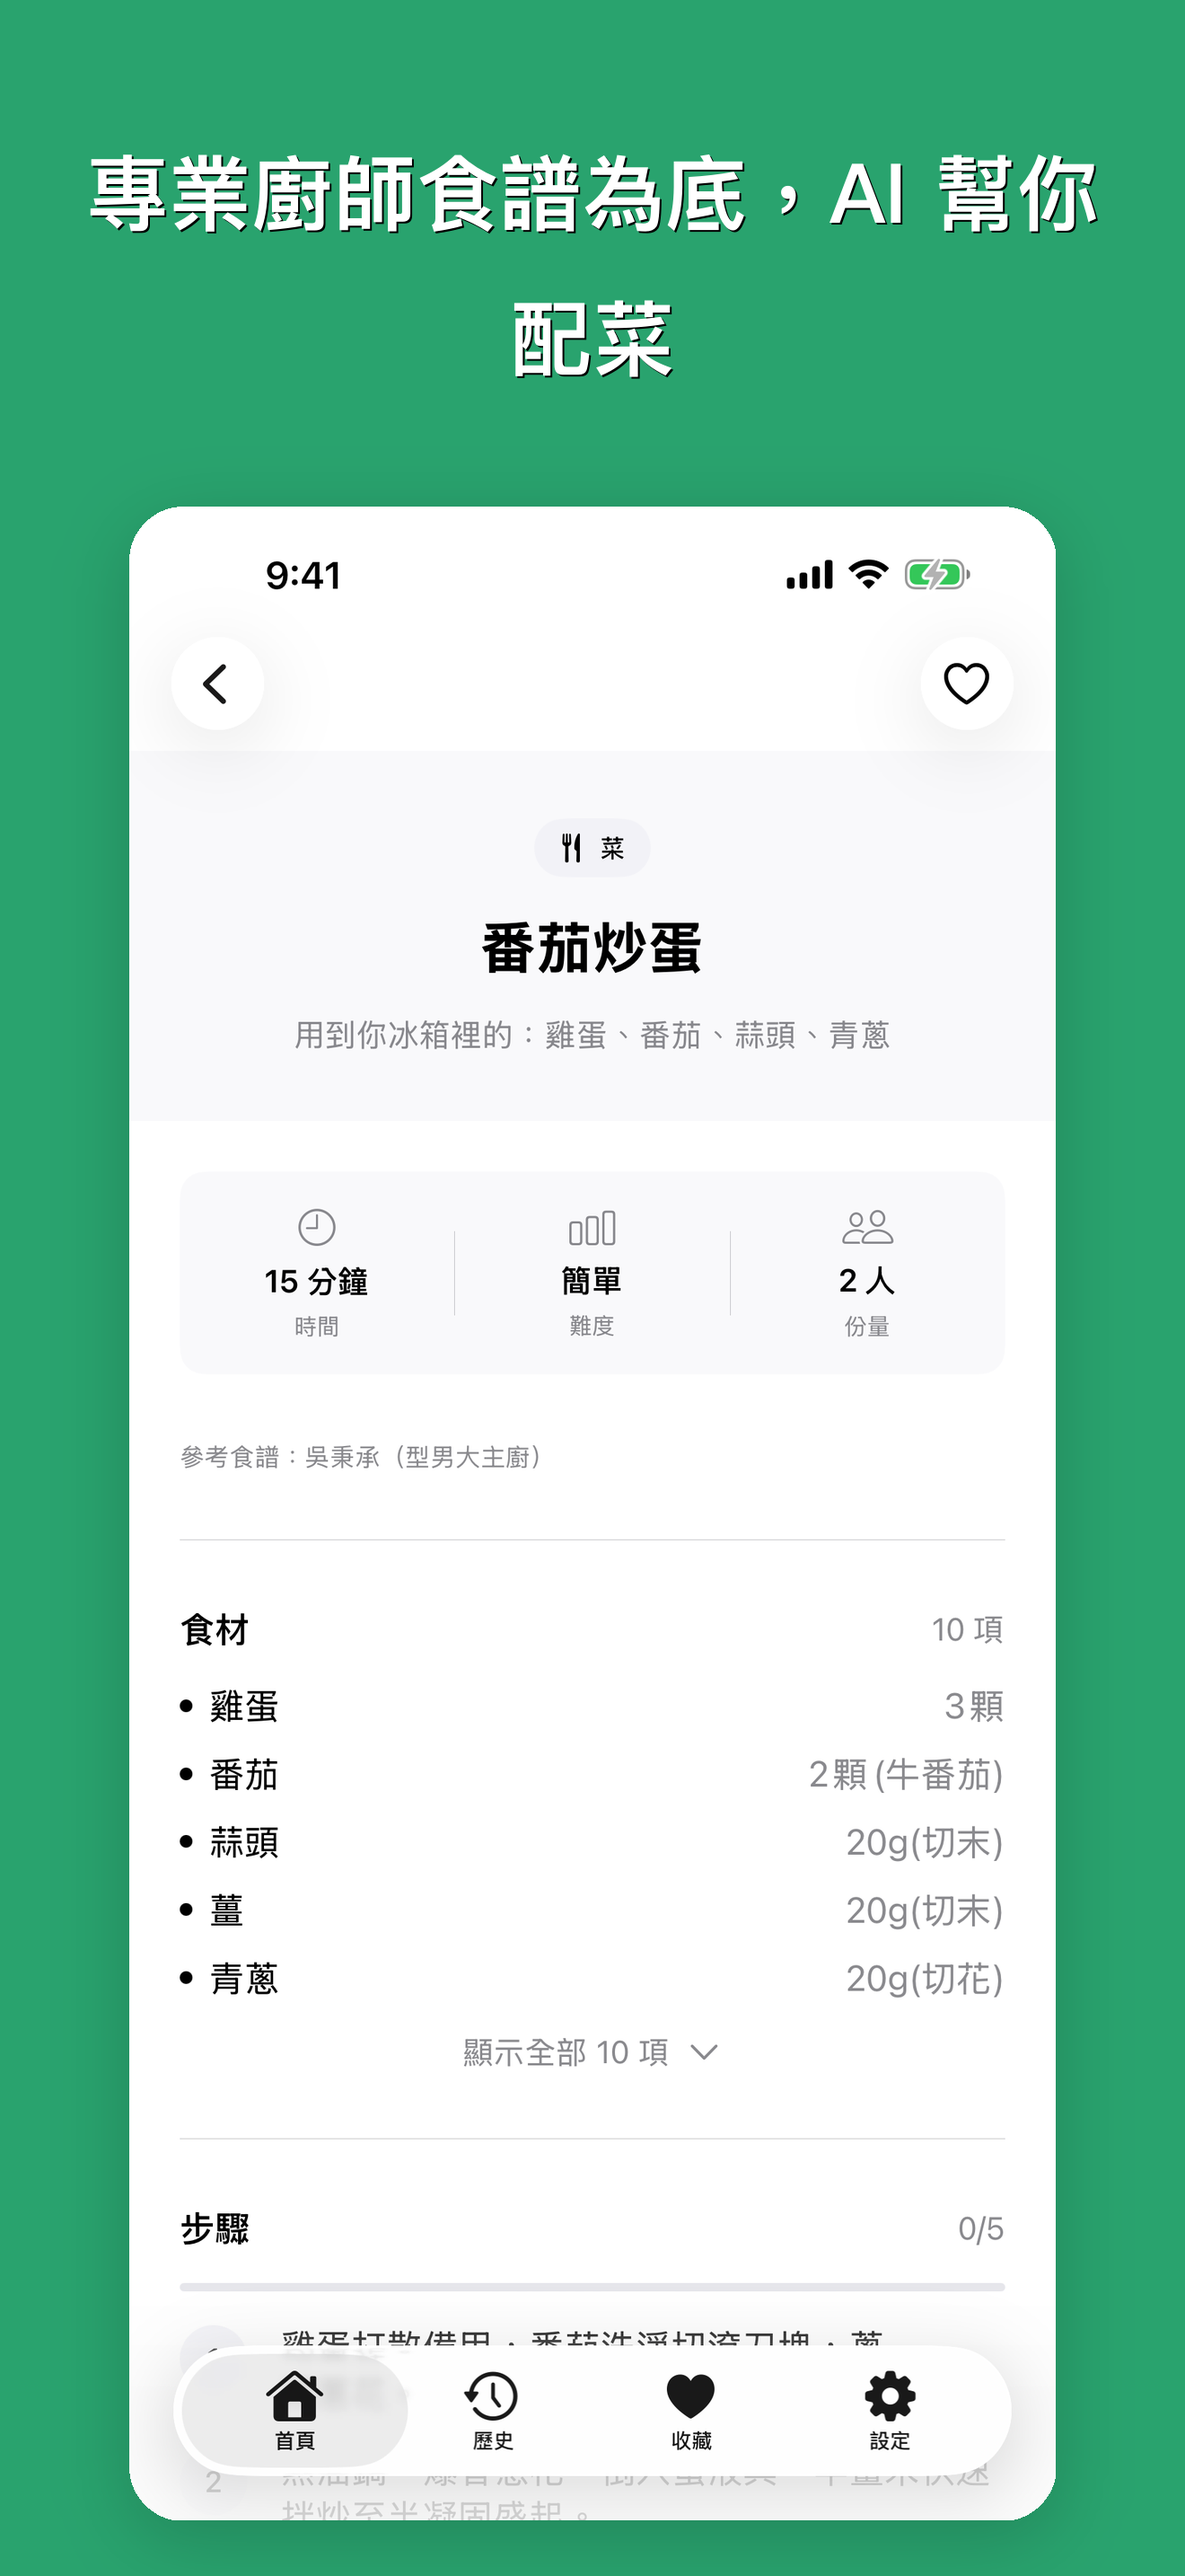
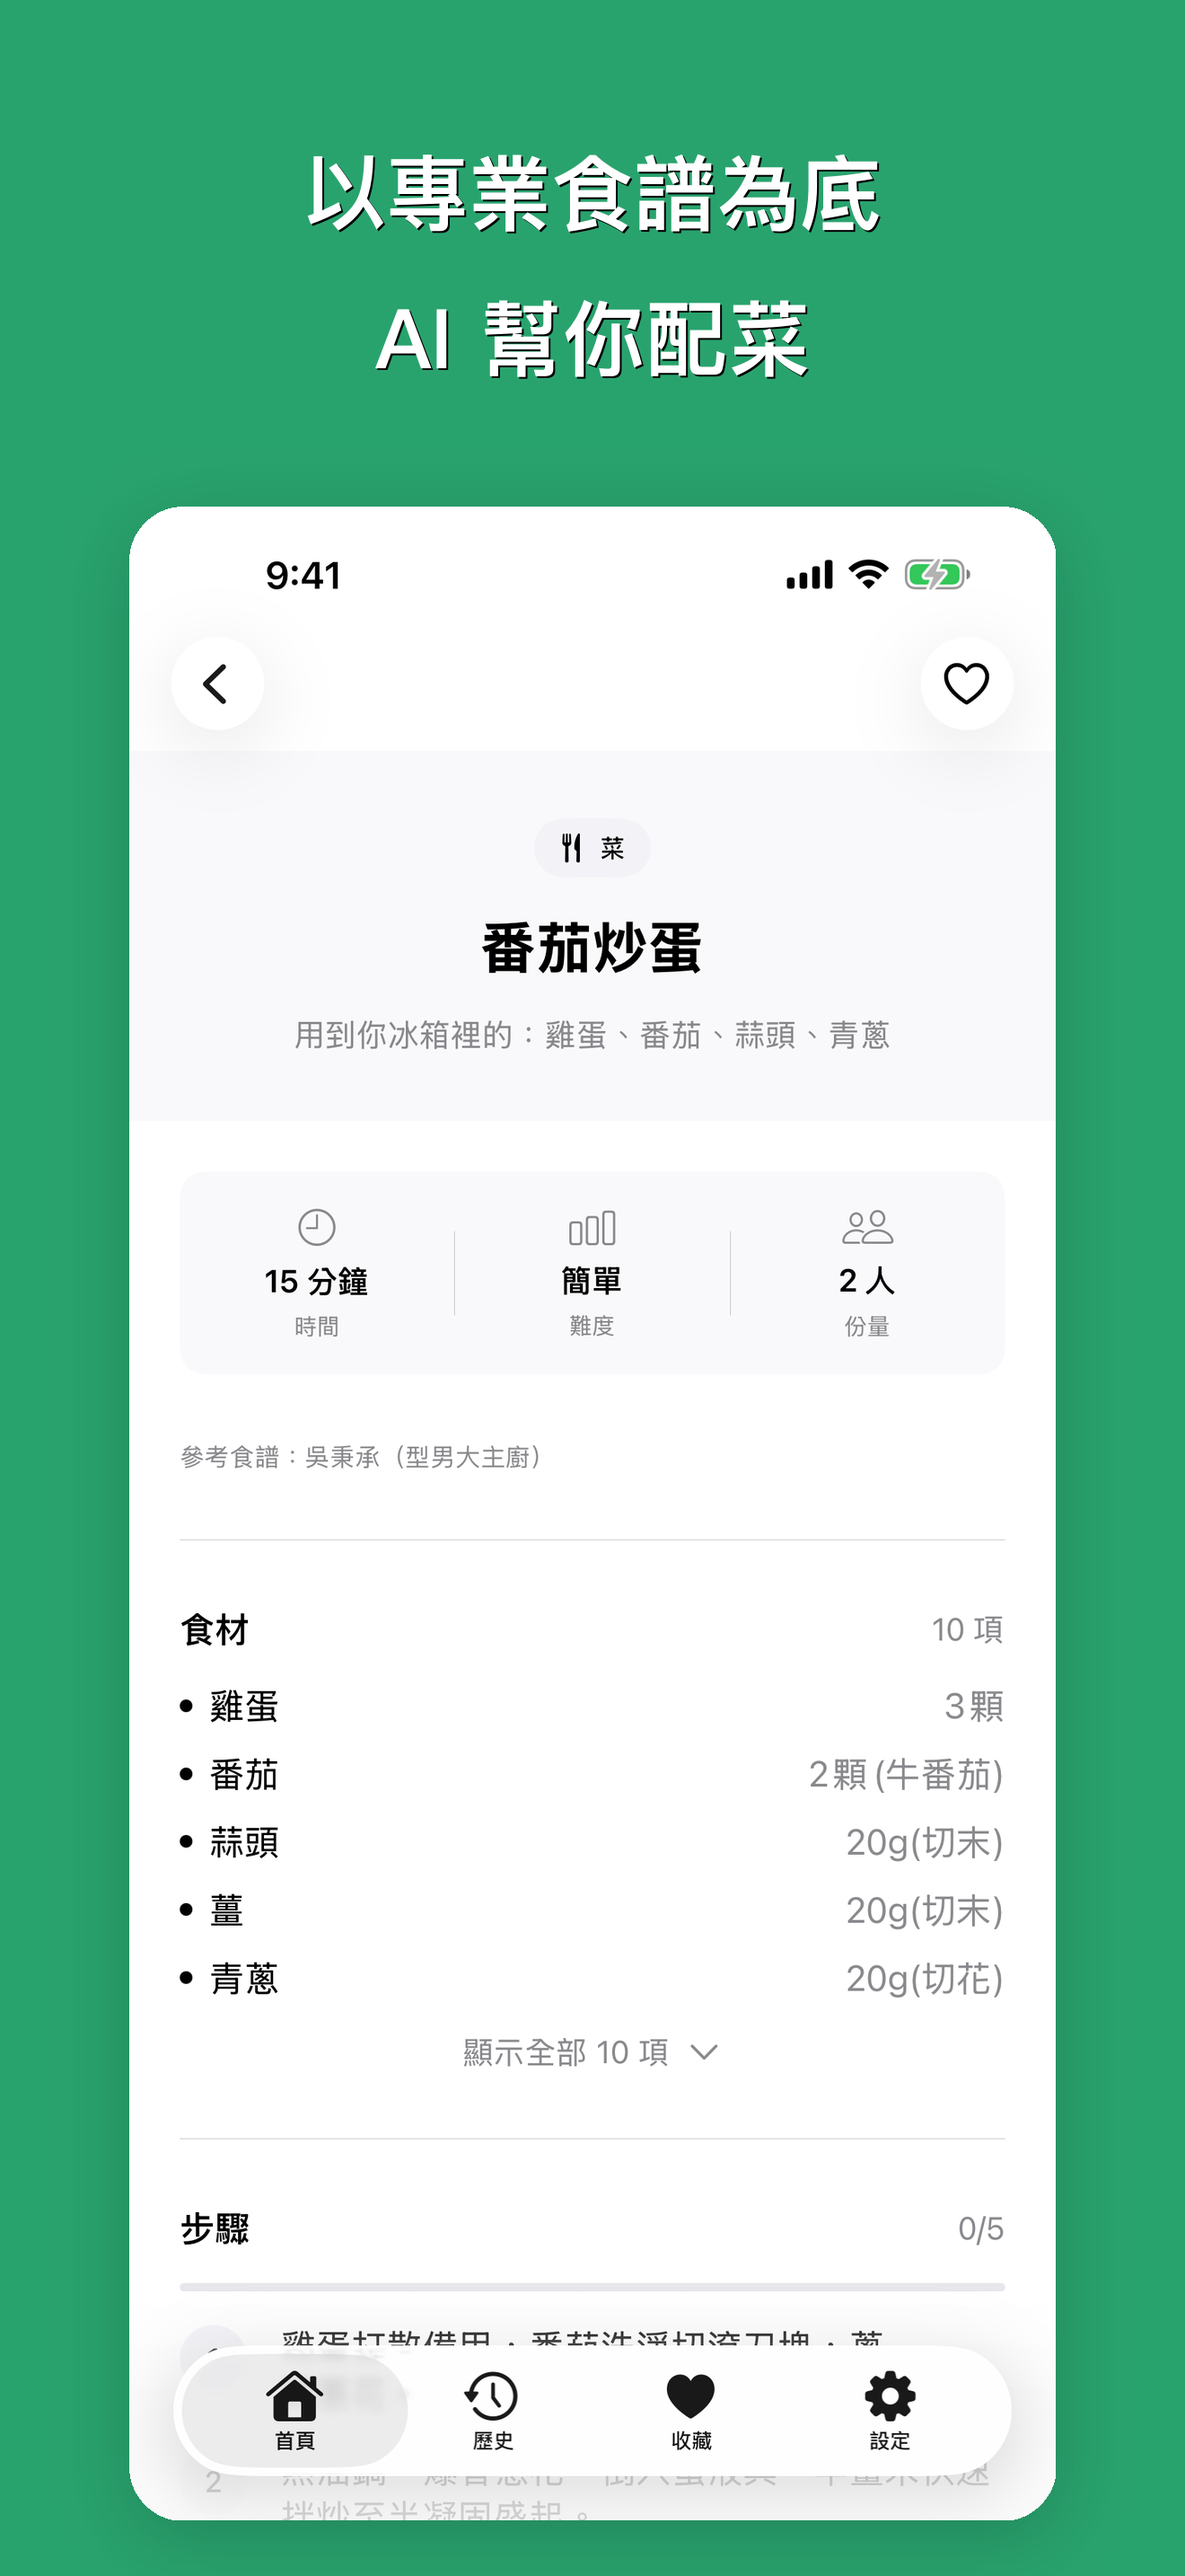
Fix App Store marketing screenshots: correct headlines, remove duplicate detail shots
- Headline text now matches each screen's actual content (onboarding no
  longer mismatched)
- Replaced the two near-duplicate detail-screen shots with home and
  onboarding captures so all 5 raw screens are used once
- Renderer no longer auto-wraps headlines; explicit line breaks are used
  where needed (avoids mid-word breaks) and font shrinks to fit within
  >=80px side margins
- Added Distribution/AppStore/screenshots/render.py (adapted from the
  scratch renderer) so the set can be regenerated

Changed region(s): [[0.0621, 0.0621, 0.9318, 0.1552]]

diff --git a/Distribution/AppStore/screenshots/render.py b/Distribution/AppStore/screenshots/render.py
@@ -1,0 +1,113 @@
+import os
+from PIL import Image, ImageDraw, ImageFont, ImageFilter
+
+RAW = "/Users/moooofan/Fridge/Distribution/AppStore/screenshots/raw"
+OUT = "/Users/moooofan/Fridge/Distribution/AppStore/screenshots"
+FONT_PATH = "/System/Library/AssetsV2/com_apple_MobileAsset_Font8/86ba2c91f017a3749571a82f2c6d890ac7ffb2fb.asset/AssetData/PingFang.ttc"
+FONT_INDEX_SEMIBOLD = 10  # PingFang TC Semibold
+
+W, H = 1320, 2868
+BG = (0x29, 0xA3, 0x6E)
+SIDE_MARGIN = 80  # required minimum side margin
+
+# headline lines are given EXPLICITLY — the renderer never auto-wraps.
+# A tuple of one string = single line. A tuple of two strings = two lines,
+# broken exactly where specified (never mid-word).
+shots = [
+    ("1_list.png", "list.png", ("冰箱有什麼，就煮什麼",)),
+    ("2_detail.png", "detail.png", ("以專業食譜為底", "AI 幫你配菜")),
+    ("3_home.png", "home.png", ("打字或拍照，輸入食材",)),
+    ("4_onboarding.png", "onboarding.png", ("少買一點，少浪費一點",)),
+    ("5_login.png", "login.png", ("Apple、Google、LINE", "一鍵登入")),
+]
+
+def load_font(size):
+    return ImageFont.truetype(FONT_PATH, size, index=FONT_INDEX_SEMIBOLD)
+
+def line_width(draw, text, font):
+    bbox = draw.textbbox((0, 0), text, font=font)
+    return bbox[2] - bbox[0]
+
+def fit_font_for_lines(draw, lines, max_width, start_size=92, min_size=40):
+    size = start_size
+    font = load_font(size)
+    while size > min_size:
+        widest = max(line_width(draw, line, font) for line in lines)
+        if widest <= max_width:
+            break
+        size -= 2
+        font = load_font(size)
+    return font, size
+
+def rounded_mask(size, radius):
+    mask = Image.new("L", size, 0)
+    d = ImageDraw.Draw(mask)
+    d.rounded_rectangle([0, 0, size[0], size[1]], radius=radius, fill=255)
+    return mask
+
+def make_card(image_path, target_width, radius, shadow_blur=40, shadow_offset=20, shadow_opacity=110):
+    raw = Image.open(image_path).convert("RGB")
+    scale = target_width / raw.width
+    target_height = int(raw.height * scale)
+    resized = raw.resize((target_width, target_height), Image.LANCZOS)
+
+    mask = rounded_mask((target_width, target_height), radius)
+    rounded = Image.new("RGBA", (target_width, target_height))
+    rounded.paste(resized, (0, 0), mask)
+
+    pad = shadow_blur * 3
+    shadow_canvas = Image.new("RGBA", (target_width + pad * 2, target_height + pad * 2), (0, 0, 0, 0))
+    shadow_shape = Image.new("RGBA", (target_width, target_height), (0, 0, 0, 0))
+    sd = ImageDraw.Draw(shadow_shape)
+    sd.rounded_rectangle([0, 0, target_width, target_height], radius=radius, fill=(0, 0, 0, shadow_opacity))
+    shadow_canvas.paste(shadow_shape, (pad, pad + shadow_offset), shadow_shape)
+    shadow_canvas = shadow_canvas.filter(ImageFilter.GaussianBlur(shadow_blur))
+
+    return rounded, shadow_canvas, pad
+
+def render_all():
+    max_text_width = W - SIDE_MARGIN * 2
+    for out_name, raw_name, lines in shots:
+        raw_path = os.path.join(RAW, raw_name)
+        canvas = Image.new("RGB", (W, H), BG)
+        draw = ImageDraw.Draw(canvas)
+
+        font, font_size = fit_font_for_lines(draw, lines, max_text_width)
+
+        ascent, descent = font.getmetrics()
+        line_height = int((ascent + descent) * 1.25)
+        total_text_height = line_height * len(lines)
+        text_top = 150
+
+        y = text_top
+        for line in lines:
+            lw = line_width(draw, line, font)
+            x = (W - lw) / 2
+            draw.text((x + 2, y + 2), line, font=font, fill=(0, 0, 0, 60))
+            draw.text((x, y), line, font=font, fill=(255, 255, 255))
+            y += line_height
+
+        card_top = text_top + total_text_height + 90
+        bottom_margin = 60
+        max_card_height = H - card_top - bottom_margin
+
+        raw_probe = Image.open(raw_path)
+        aspect = raw_probe.height / raw_probe.width
+
+        card_width = int(W * 0.82)
+        if card_width * aspect > max_card_height:
+            card_width = int(max_card_height / aspect)
+
+        radius = 60
+        card, shadow, pad = make_card(raw_path, card_width, radius)
+        card_x = (W - card_width) // 2
+
+        canvas.paste(shadow, (card_x - pad, card_top - pad), shadow)
+        canvas.paste(card, (card_x, card_top), card)
+
+        out_path = os.path.join(OUT, out_name)
+        canvas.save(out_path)
+        print("saved", out_path, canvas.size, "font_size", font_size, "card bottom", card_top + card.height)
+
+if __name__ == "__main__":
+    render_all()
